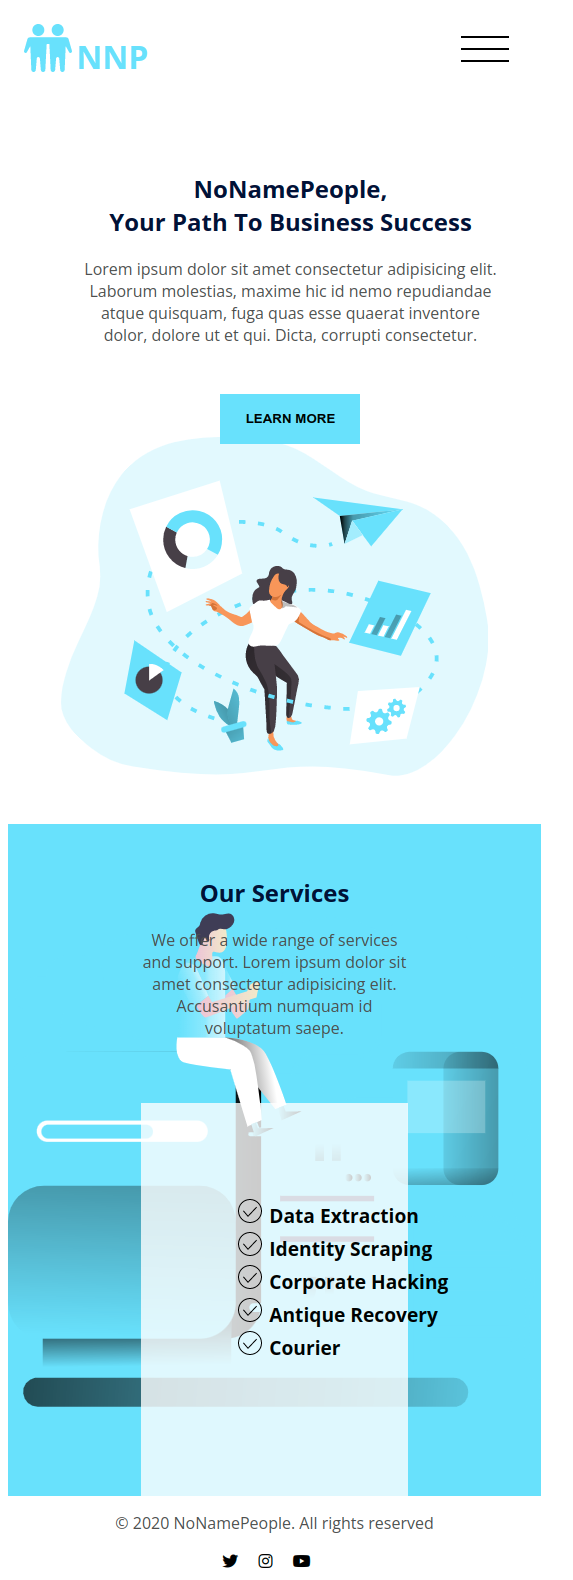
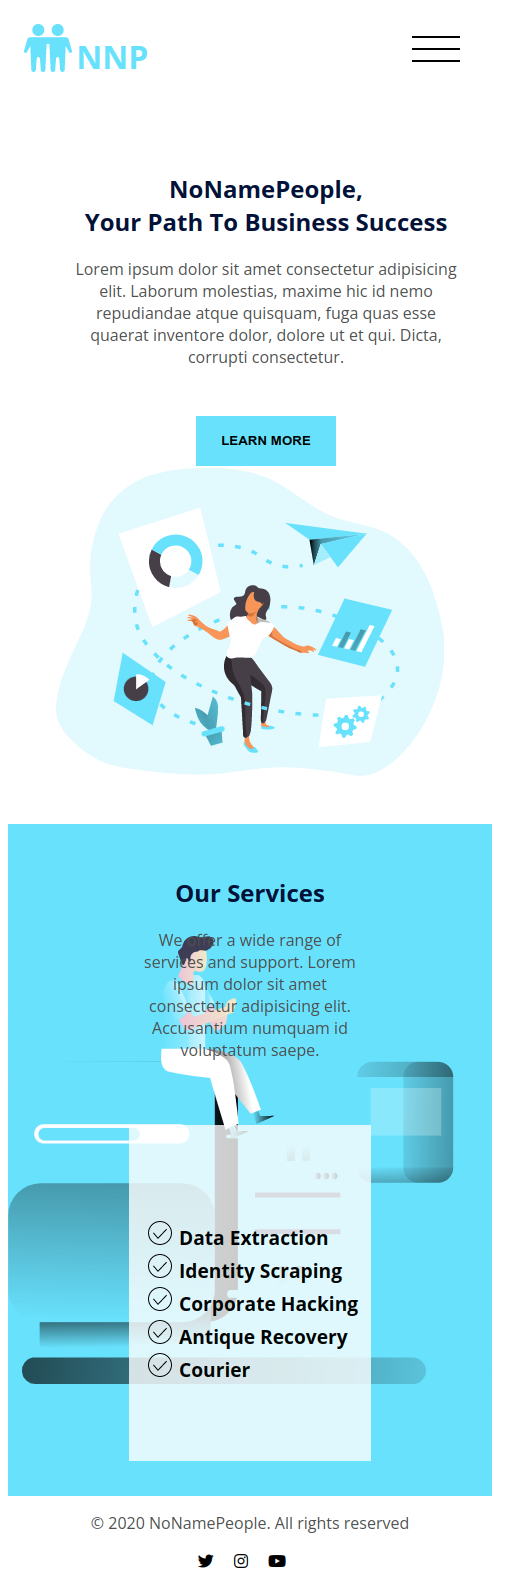
updated mobile-layout

diff --git a/css/style.css b/css/style.css
@@ -170,11 +170,12 @@ i {
 
   .divservice2 ul {
     width: 100%;
-    padding-left: 8rem;
+    padding-left: 10vw;
   }
 
   .divservice2 {
     background-color: rgba(255, 255, 255, 0.8);
+    height: 15rem;
   }
 
   .divservice2 li {
